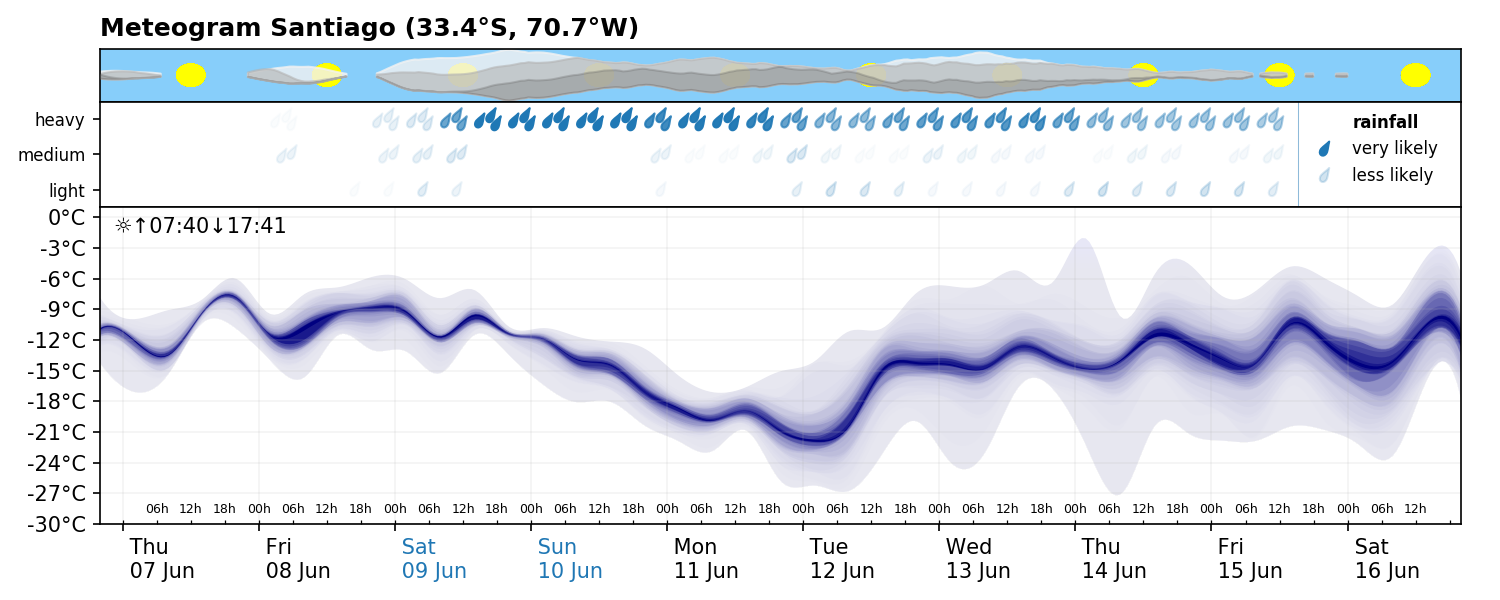
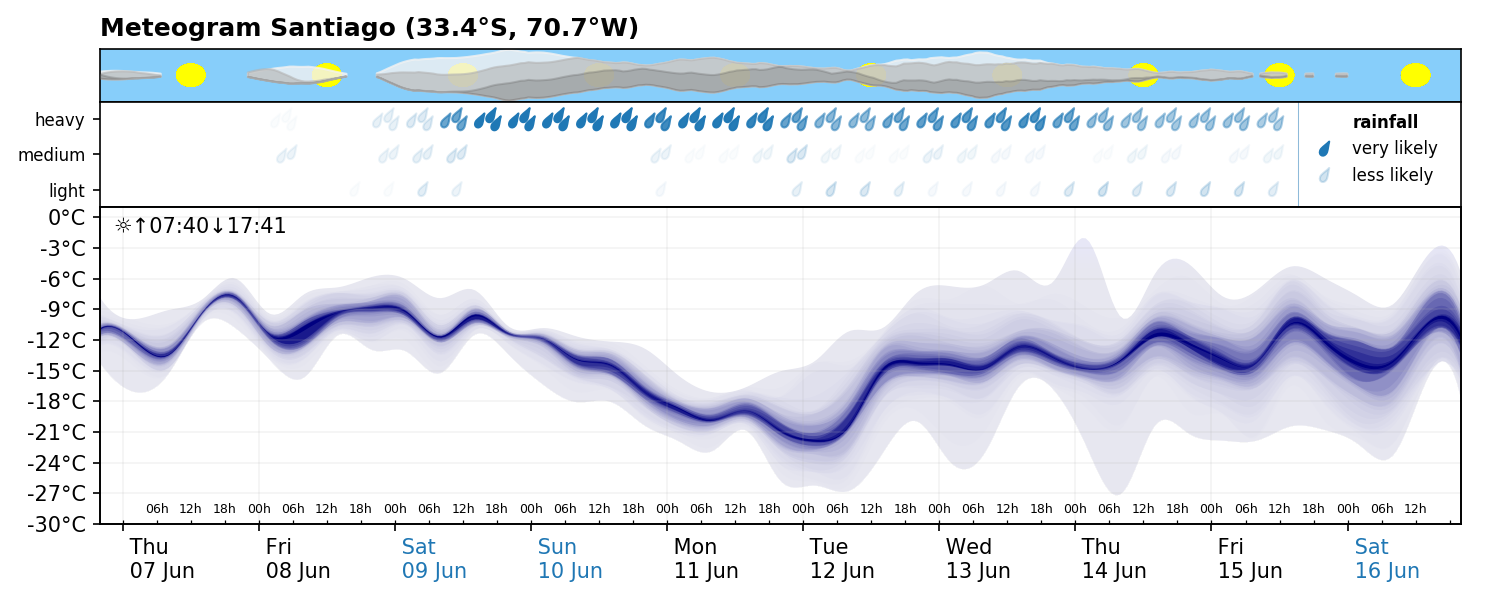
Sat and Sun coloured in blue

Changed region(s): [[0.092, 0.87, 0.9507, 0.96]]

diff --git a/meteogram.py b/meteogram.py
@@ -4,7 +4,7 @@ sys.path.append(HERE_PATH)
 
 import numpy as np
 import matplotlib.pyplot as plt
-from matplotlib.dates import DayLocator, HourLocator, DateFormatter, drange, date2num, num2date
+from matplotlib.dates import WeekdayLocator, DayLocator, HourLocator, DateFormatter, drange, date2num, num2date
 from netCDF4 import Dataset
 from matplotlib.ticker import FormatStrFormatter
 import datetime
@@ -275,17 +275,28 @@ def temp_ax_format(ax,tminmax,dates,utcoffset):
     ax.get_xaxis().set_tick_params(which='minor', direction='in',pad=-10,labelsize=6)
     ax.grid(alpha=0.15)
 
-    ax.xaxis.set_major_locator(DayLocator())                        # major
+    # major weekdays not weekend in black
+    ax.xaxis.set_major_locator(WeekdayLocator(byweekday=range(5)))
     ax.xaxis.set_major_formatter(DateFormatter(" %a\n %d %b"))
     plt.setp(ax.get_xticklabels(), ha="left")
-    plt.setp(ax.get_xticklabels(), ha="left")
-
+    
+    # major weekends in blue
+    ax_weekend = ax.twiny()                             
+    ax_weekend.set_xlim(dates[0],dates[-1])
+    ax_weekend.xaxis.set_major_locator(WeekdayLocator(byweekday=[5,6]))
+    ax_weekend.xaxis.set_major_formatter(DateFormatter(" %a\n %d %b"))
+    ax_weekend.xaxis.tick_bottom()
+    plt.setp(ax_weekend.get_xticklabels(), ha="left", color="C0")
+    
     # remove labels at edges
     if dates[-1].hour < 13:     # remove only if there is not enough space
-        ax.get_xticklabels()[-1].set_visible(False)
+        if dates[-1].weekday() > 4:     # weekend 
+            ax_weekend.get_xticklabels()[-1].set_visible(False)
+        else:   # during the week
+            ax.get_xticklabels()[-1].set_visible(False)
     
-    ax.get_xticklabels()[2].set_color("C0") #TODO make automatic
-    ax.get_xticklabels()[3].set_color("C0")
+    #ax.get_xticklabels()[2].set_color("C0") #TODO make automatic
+    #ax.get_xticklabels()[3].set_color("C0")
     ax.get_xticklabels(which="minor")[-1].set_visible(False)
     ax.get_xticklabels(which="minor")[0].set_visible(False)
 
